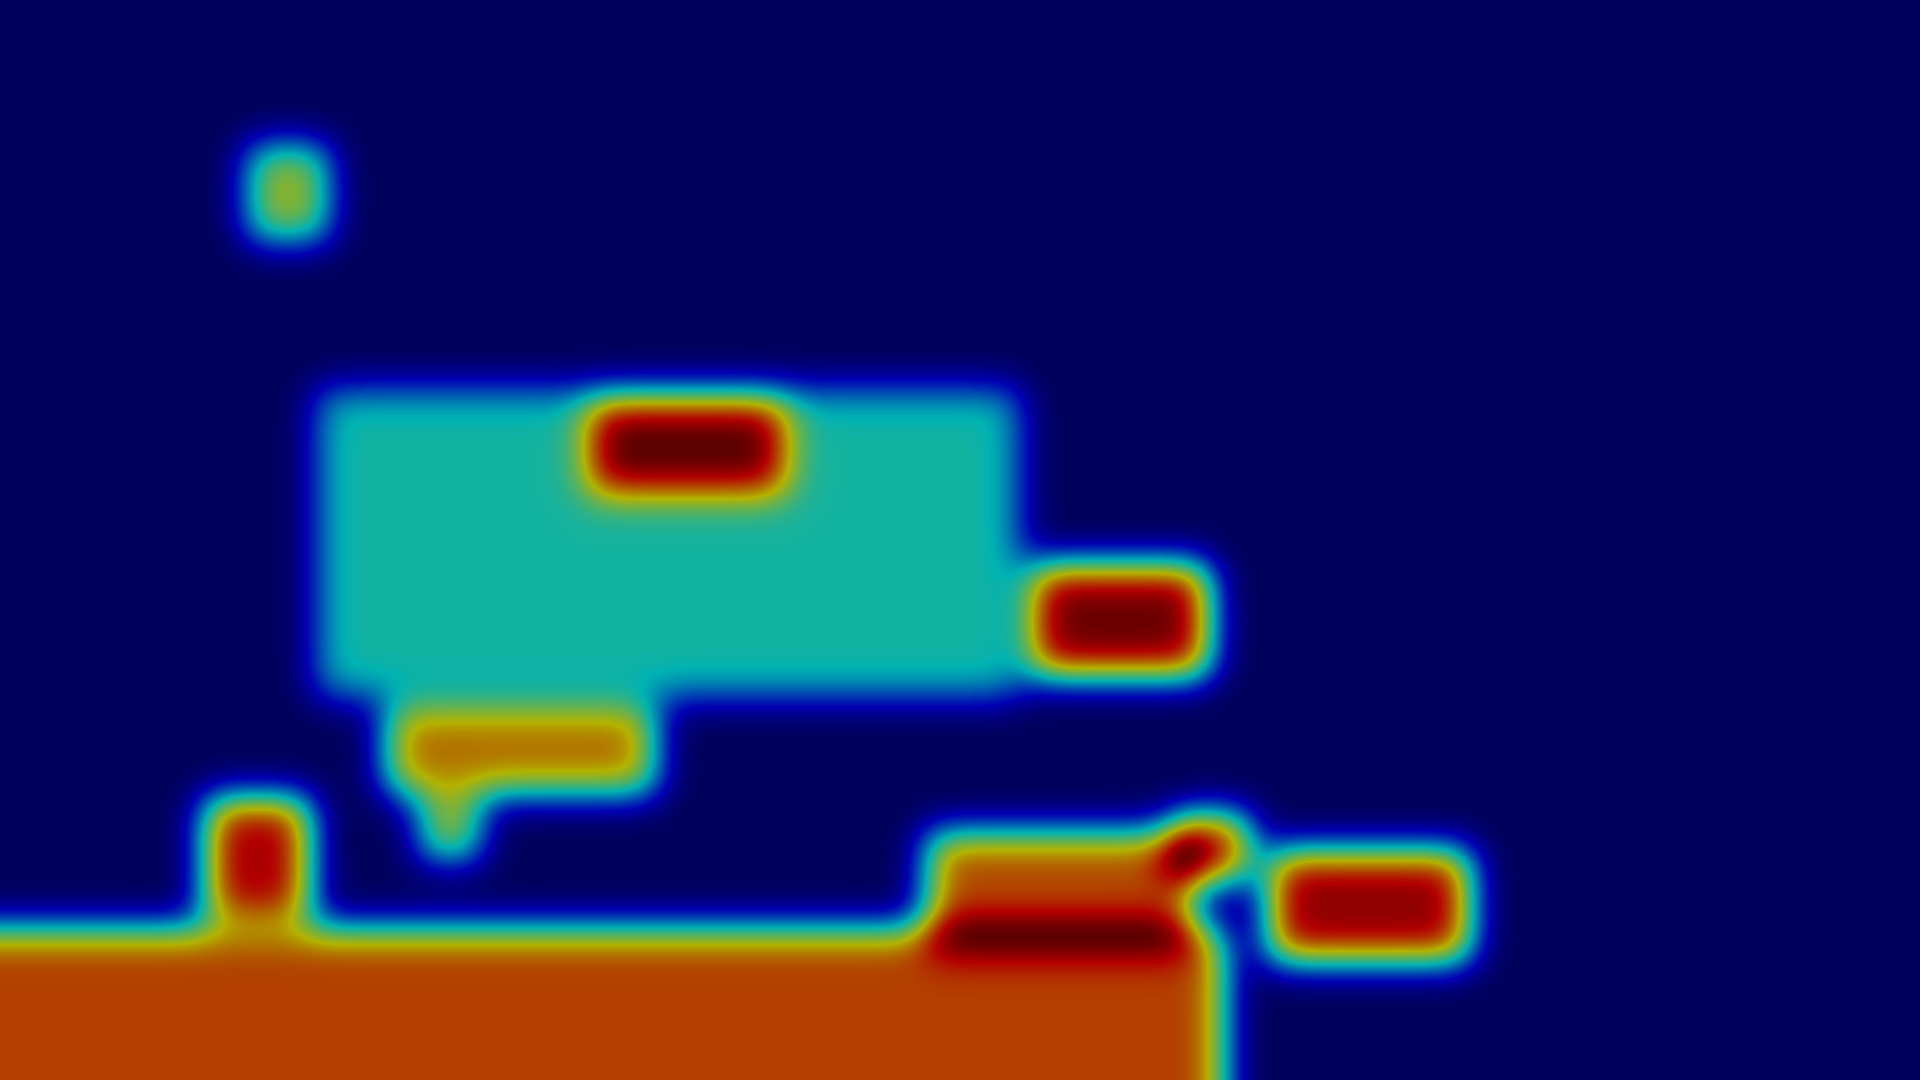
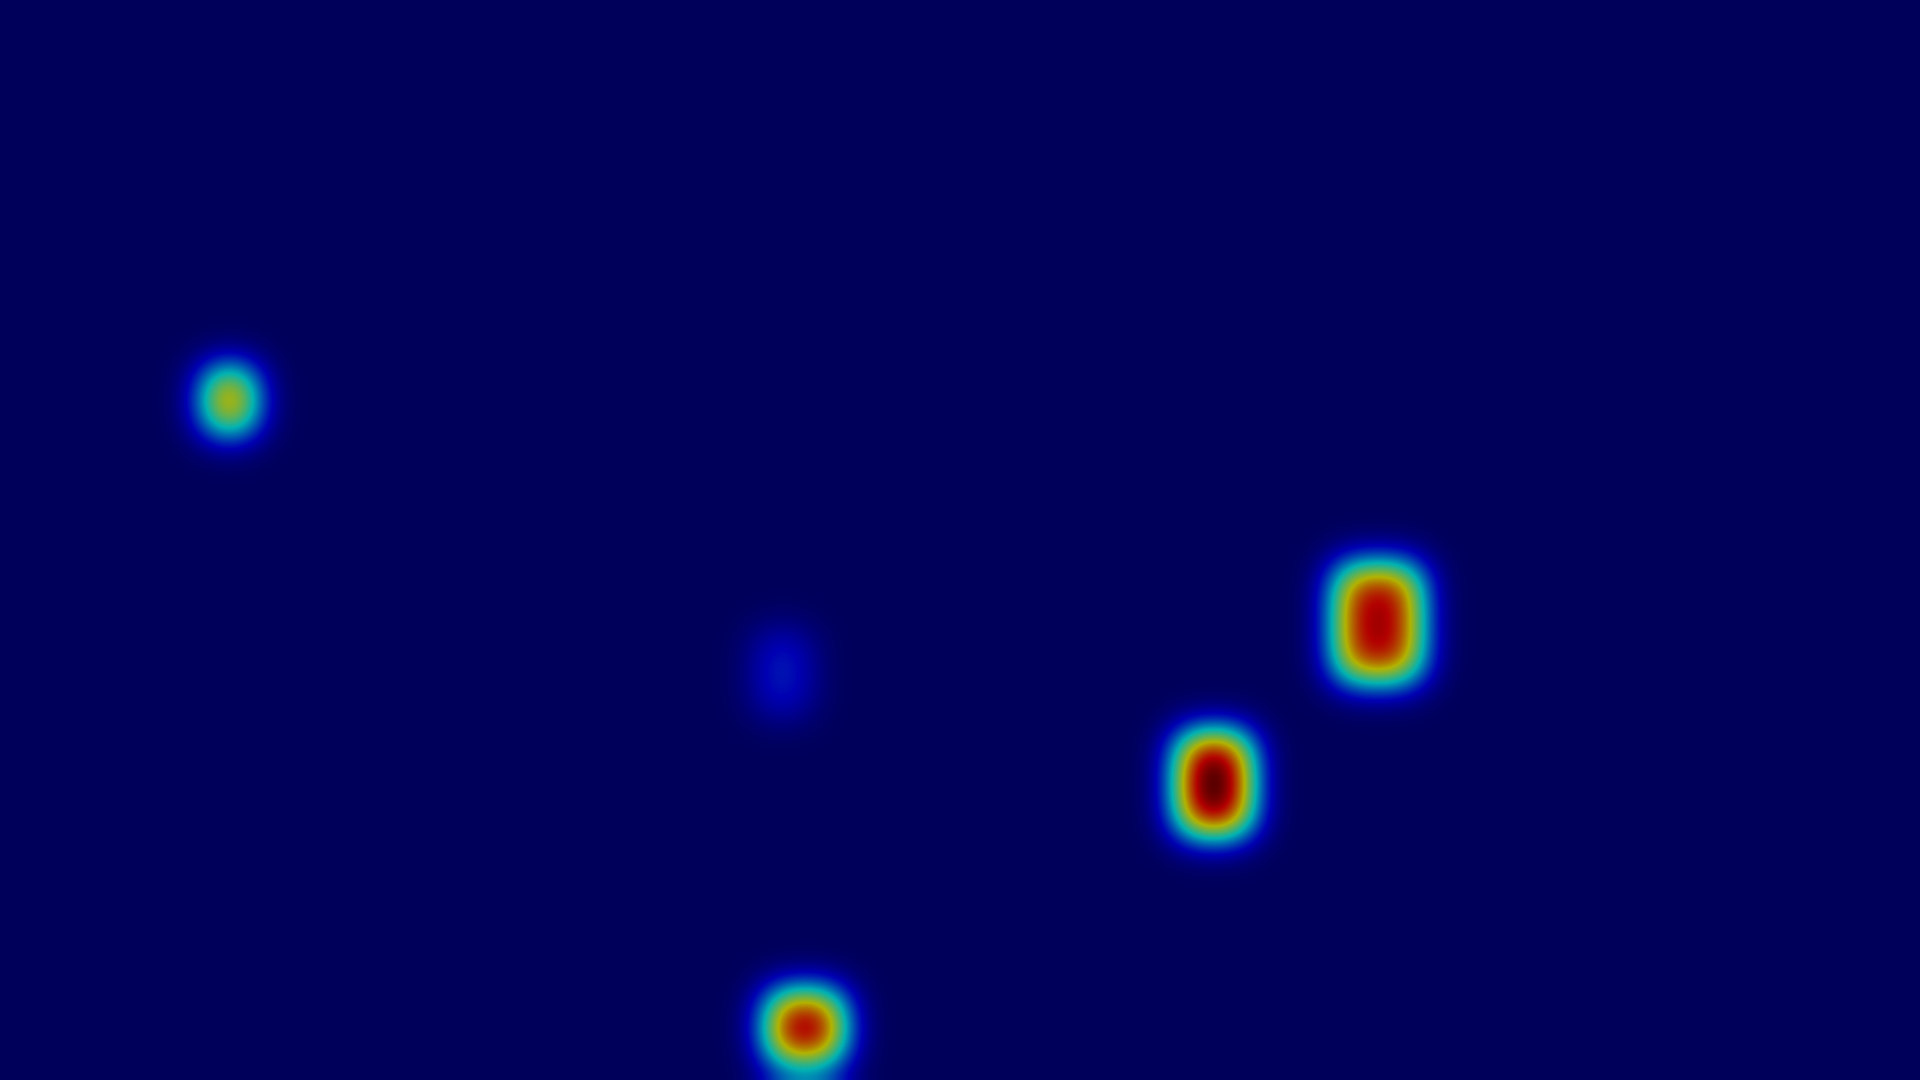
Add setup.py and start script for Render deployment

diff --git a/setup.py b/setup.py
@@ -1,0 +1,14 @@
+from setuptools import setup, find_packages
+
+setup(
+    name="cctv-analytics",
+    version="1.0.0",
+    packages=find_packages(),
+    install_requires=[
+        "flask==3.0.0",
+        "opencv-python-headless==4.10.0.84",
+        "numpy>=1.24.0,<2.0.0",
+        "werkzeug==3.0.1",
+        "gunicorn==21.2.0",
+    ],
+)
